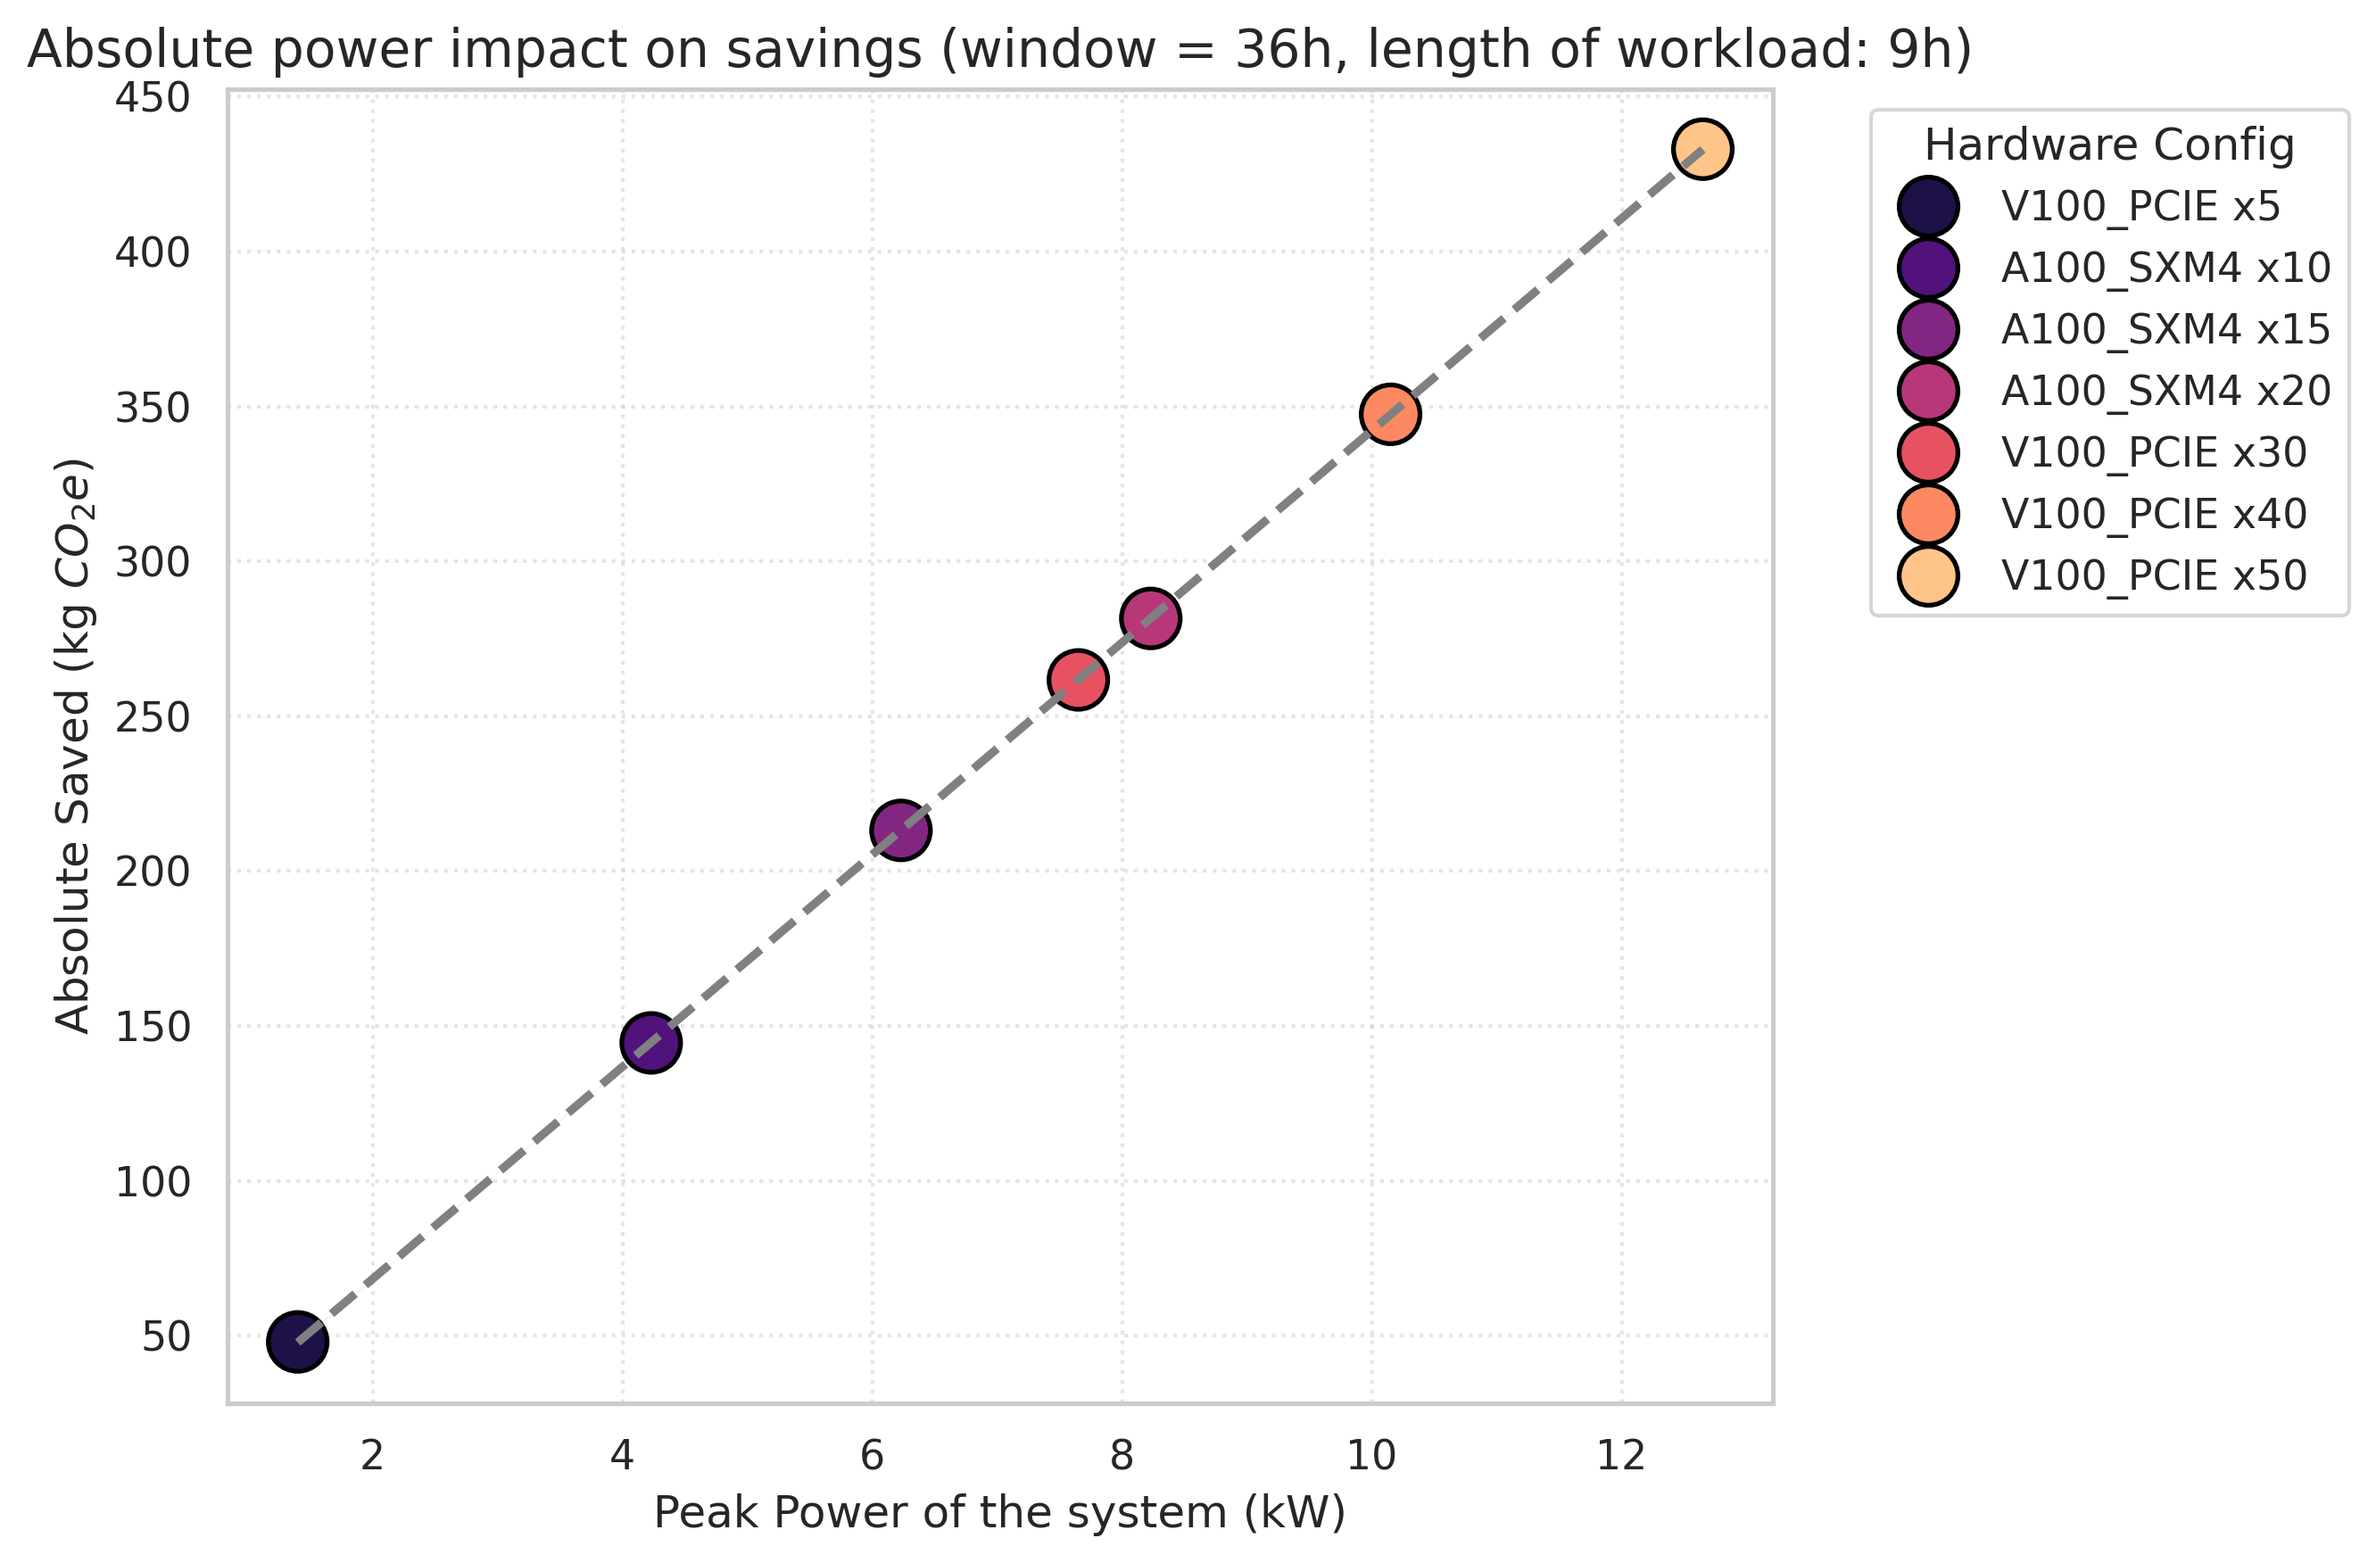
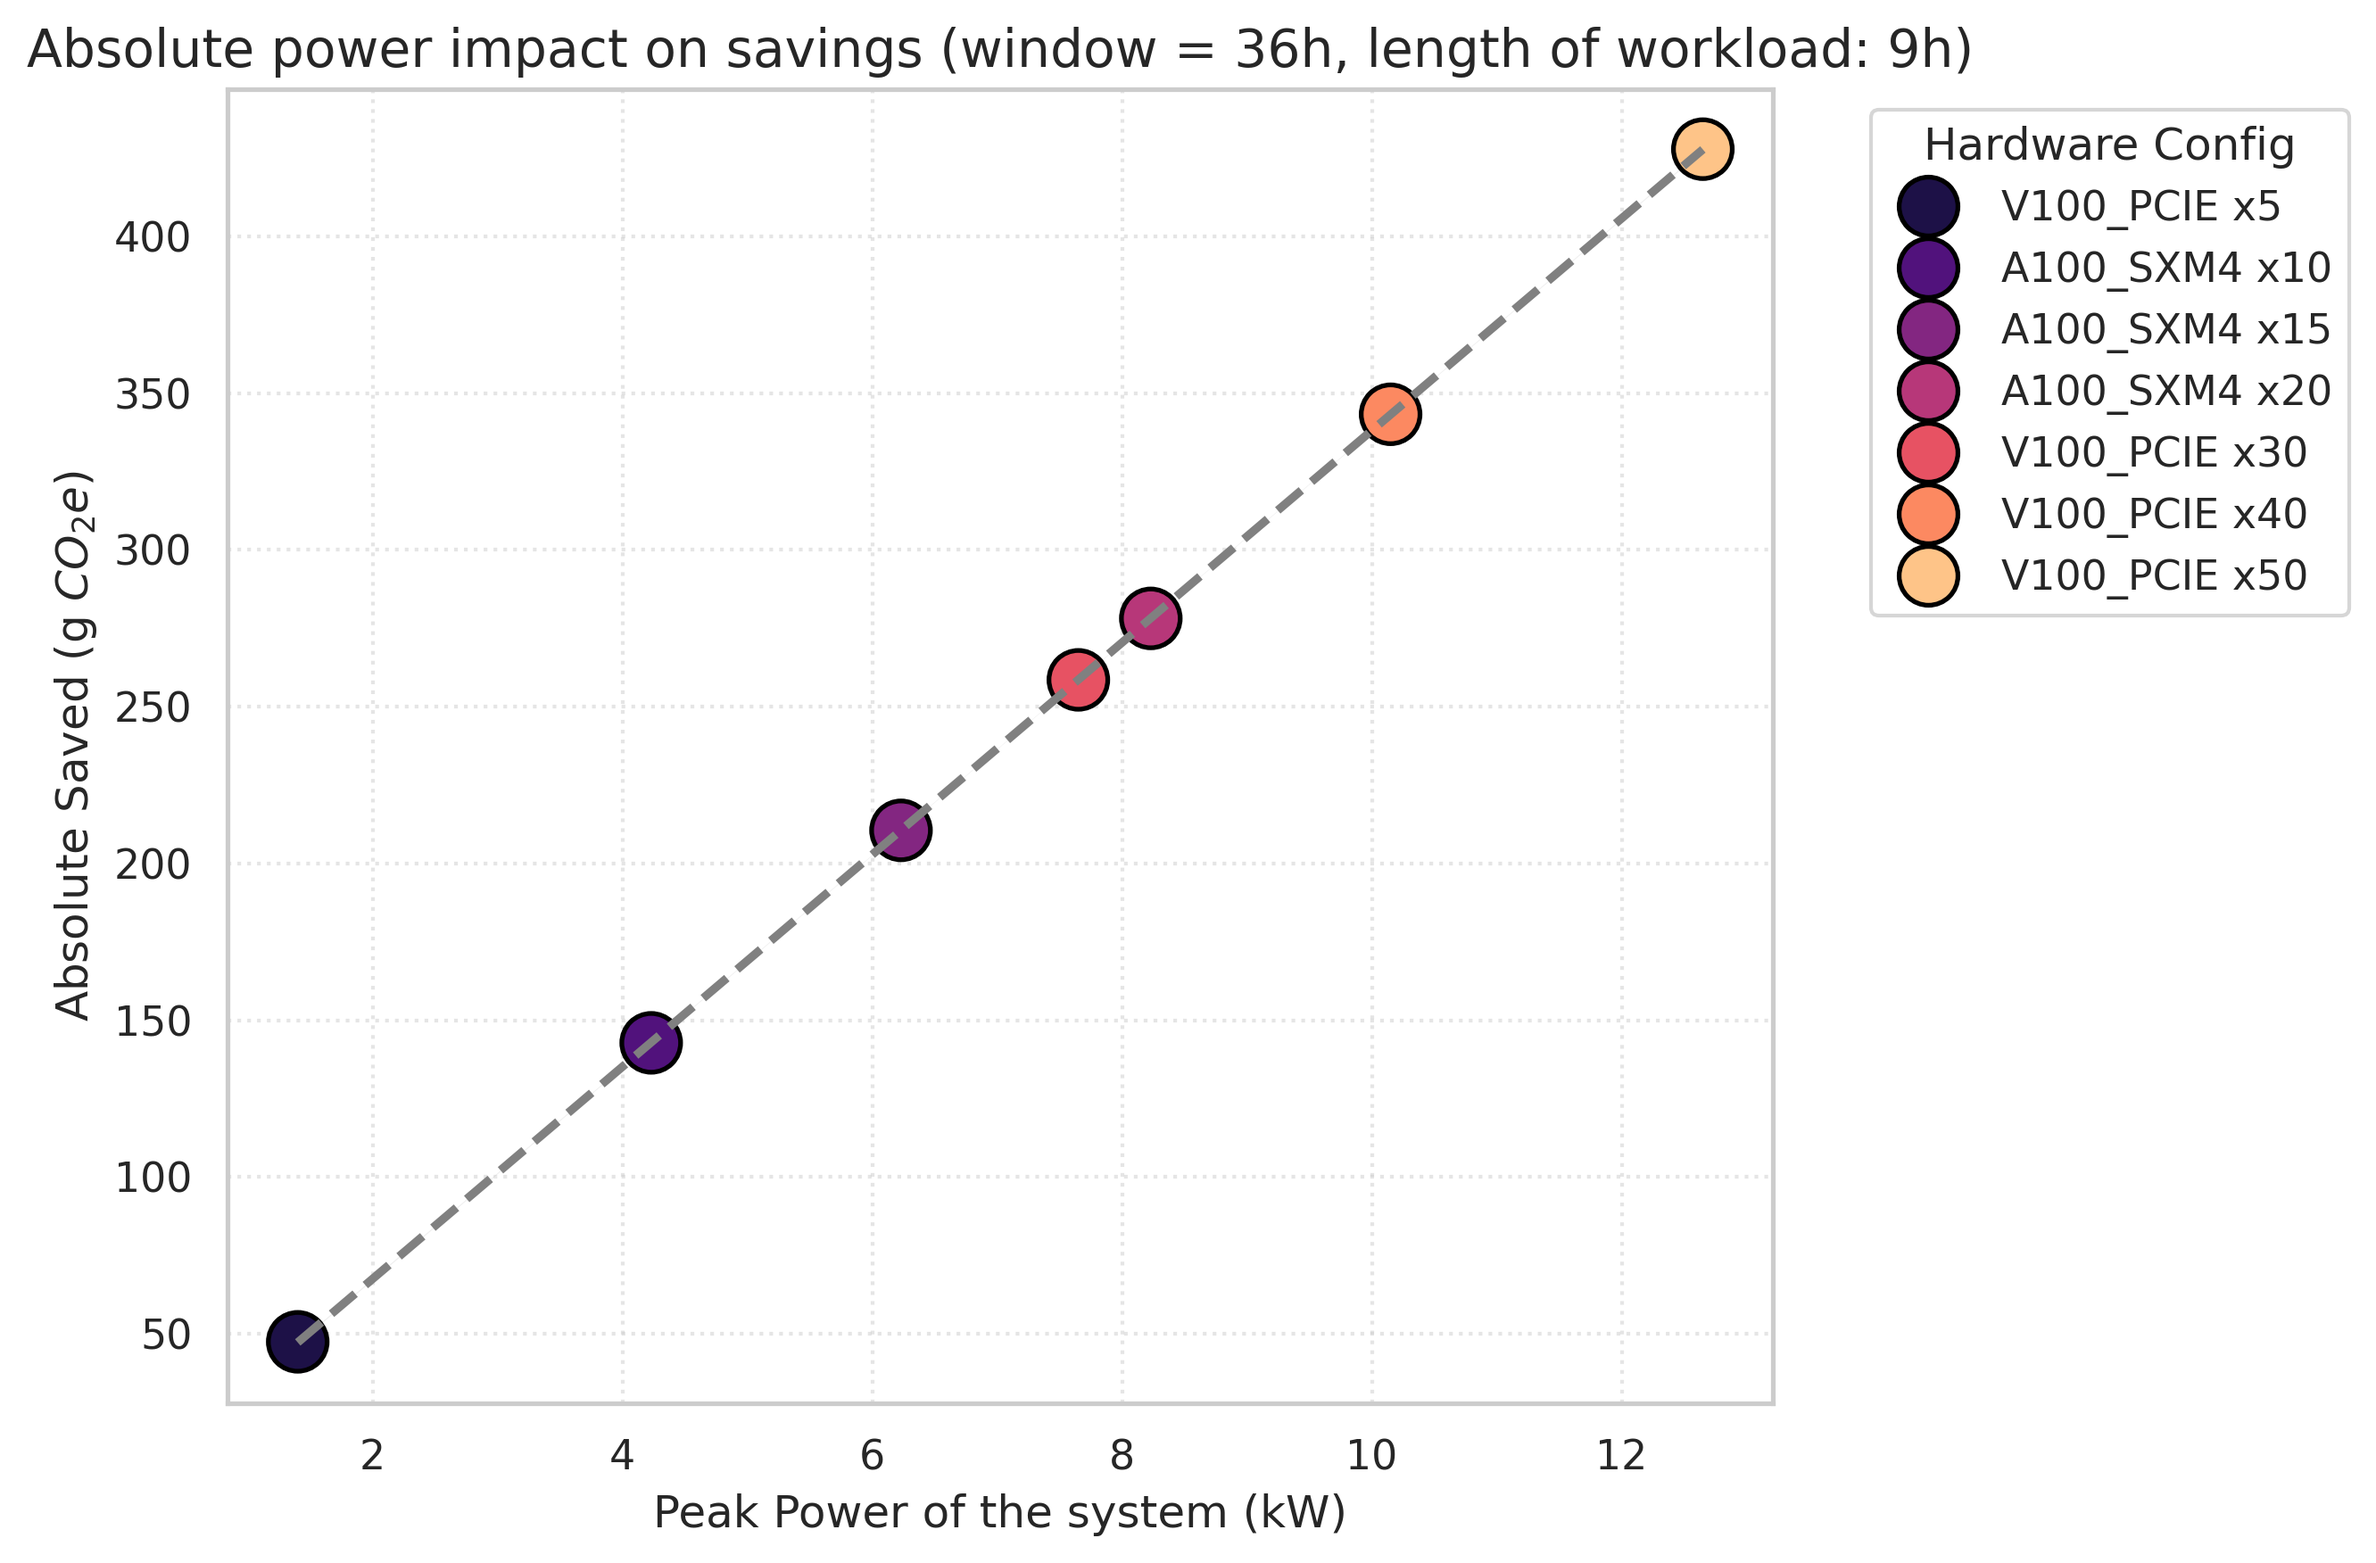
fixed kg to grams

diff --git a/comparison/visualization/power_leverage.py b/comparison/visualization/power_leverage.py
@@ -117,7 +117,7 @@ class PowerLeverageVisulizer(Visualizer):
             data.append(
                 {
                     "Peak Power of the system (kW)": c["full_power"],
-                    "Abs. Saved (kg)": saved,
+                    "Abs. Saved (g)": saved,
                     "Hardware": short_label,
                 }
             )
@@ -128,7 +128,7 @@ class PowerLeverageVisulizer(Visualizer):
         sns.regplot(
             data=df,
             x="Peak Power of the system (kW)",
-            y="Abs. Saved (kg)",
+            y="Abs. Saved (g)",
             scatter=False,
             color="gray",
             line_kws={"linestyle": "--"},
@@ -137,7 +137,7 @@ class PowerLeverageVisulizer(Visualizer):
         sns.scatterplot(
             data=df,
             x="Peak Power of the system (kW)",
-            y="Abs. Saved (kg)",
+            y="Abs. Saved (g)",
             hue="Hardware",
             s=250,
             palette="magma",
@@ -148,7 +148,7 @@ class PowerLeverageVisulizer(Visualizer):
         plt.title(
             "Absolute power impact on savings (window = 36h, length of workload: 9h)"
         )
-        plt.ylabel(r"Absolute Saved (kg $CO_2e$)")
+        plt.ylabel(r"Absolute Saved (g $CO_2e$)")
         plt.grid(True, linestyle=":", alpha=0.5)
         plt.tight_layout()
         plt.savefig(self.save_path + "plot_leverage_absolute.png", bbox_inches="tight")
@@ -161,4 +161,4 @@ class PowerLeverageVisulizer(Visualizer):
 
 if __name__ == "__main__":
     vis = PowerLeverageVisulizer()
-    vis.plot_compression_leverage_relative()
+    vis.plot_compression_leverage_absolute()
